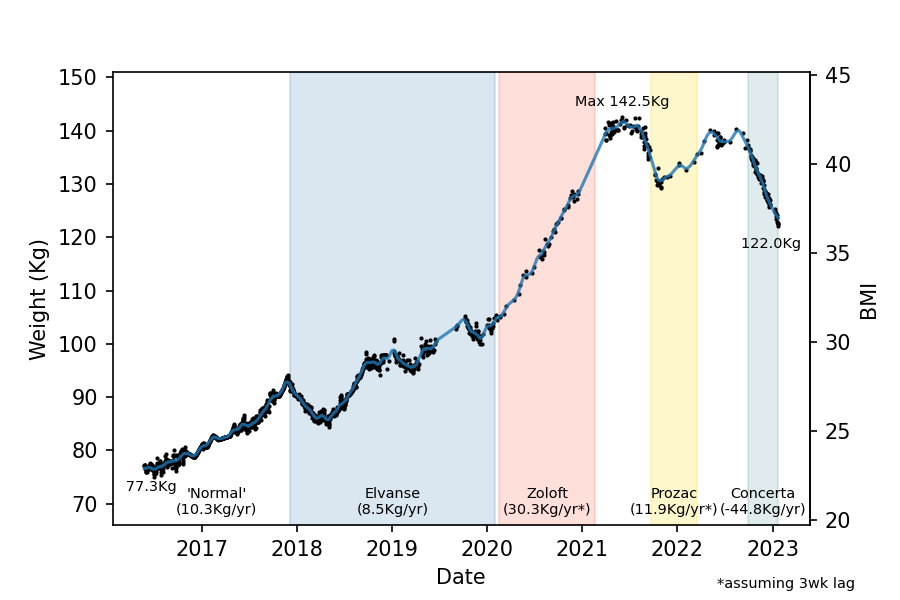
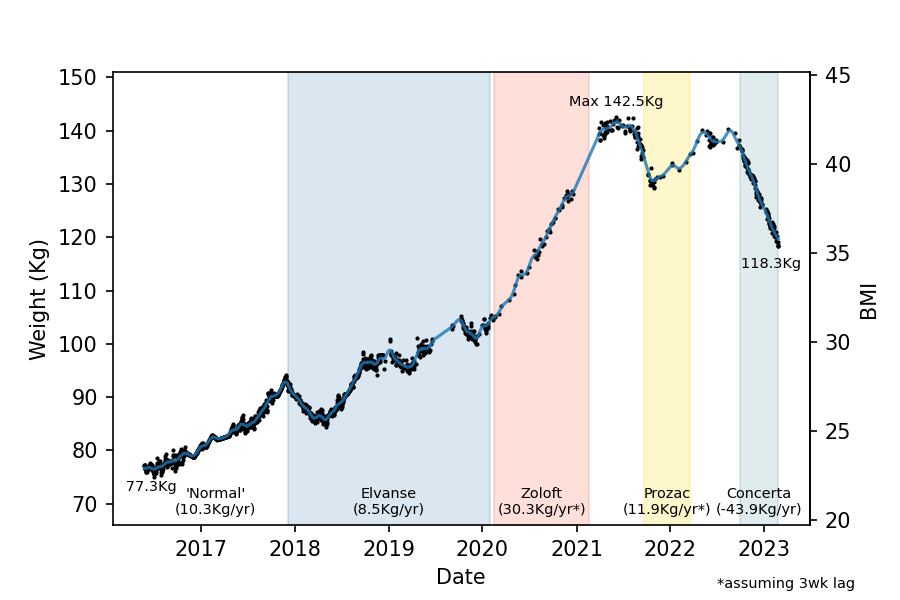
updated weight graph to curr. date

diff --git a/weightGraph/plot_weight.py b/weightGraph/plot_weight.py
@@ -14,6 +14,7 @@ I do have ADHD, and did have an eating disorder which ADHD meds *mostly* address
 """
 
 # import necessary stuff
+import os
 import numpy as np
 import pandas as pd
 import matplotlib.pyplot as plt
@@ -22,6 +23,9 @@ from datetime import datetime, timedelta
 
 # set dpi for figures
 plt.rcParams["figure.dpi"] = 300
+
+# change directory to location of script
+os.chdir(os.path.dirname(__file__))
 
 # create functions to calculate bmi from weight (in kgs) and vice versa
 # hardcoded to my height of 1.8288m (6ft)
@@ -33,8 +37,7 @@ def bmi2kg(x):
 #%% import file
 
 # import the file
-weight_dat = pd.read_csv('/home/richard/Documents/Python/weightGraph/weight.csv', \
-                         usecols=['Date','Weight (kg)'])
+weight_dat = pd.read_csv('./weight.csv',usecols=['Date','Weight (kg)'])
     
 # rename columns
 weight_dat.rename(columns={'Weight (kg)':'Weight'},inplace=True)
@@ -186,7 +189,7 @@ ax.text(weight_dat.index[0],weight_dat.iat[0,0]-5,'   %.1fKg' % (weight_dat.iat[
 ax.text(weight_dat.index[-1],weight_dat.iat[-1,0]-4,'%.1fKg   ' % (weight_dat.iat[-1,0]),ha='center',size='x-small')
 
 # save the figure
-# plt.savefig('/home/richard/Documents/Python/weightGraph/weightGraph.png',dpi=150, pad_inches=0)
+plt.savefig('./weightGraph.png',dpi=150, pad_inches=0)
 
 # show the glory
 plt.show()
